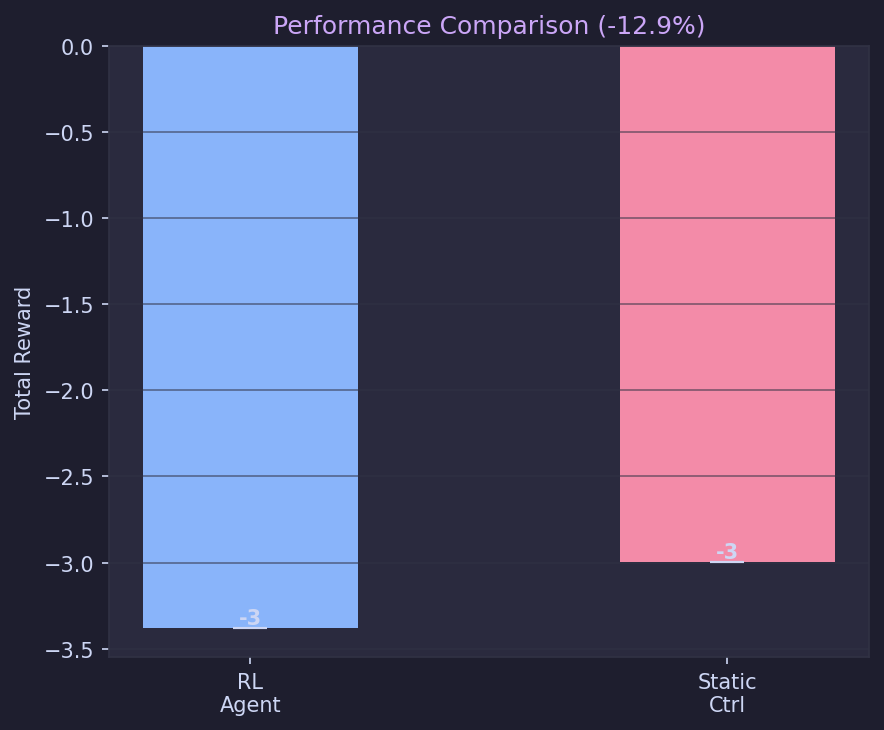
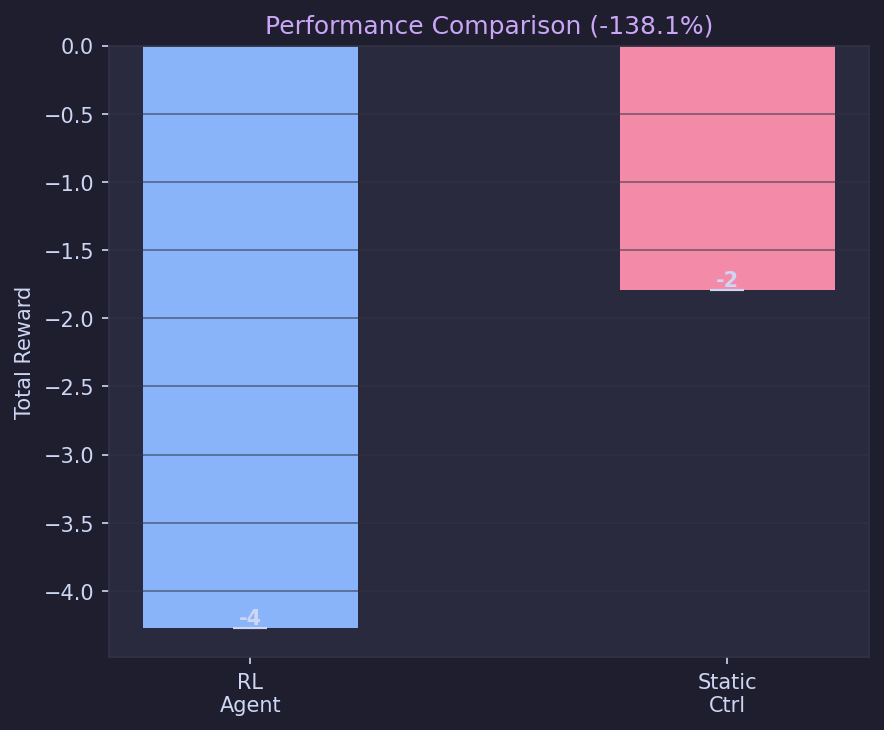
idk

diff --git a/env/traffic_env.py b/env/traffic_env.py
@@ -15,11 +15,9 @@ State (10-dim float32):
    current_green_phase,                            <- 0..3
    phase_time_norm]                                <- seconds / 60
 
-Actions (square layout: 0-1-2-3 as corners):
+Actions:
   0 -> stay at current green phase
-  1 -> forward  (next phase, +1 mod 4)
-  2 -> diagonal (opposite phase, +2 mod 4)
-  3 -> backward (previous phase, +3 mod 4)
+  1 -> next green phase (+1 mod 4)
 
 Reward: - sum halting vehicles / waiting time across all lanes (per sim-step sum)
 
@@ -125,6 +123,8 @@ def compute_reward(lanes: list, left_lanes: list, mode: str = "wait", return_com
         wait_part_total -= wait_val * penalty
         count_part_total -= count_val * penalty
 
+    reward = -np.sqrt(max(0, -reward))
+
     if return_components:
         return reward, wait_part_total, count_part_total
     return reward
@@ -175,7 +175,7 @@ class TrafficEnv:
 
     @property
     def action_size(self) -> int:
-        return 4
+        return 2
 
     def _launch(self):
         binary = "sumo-gui" if self.use_gui else "sumo"
@@ -325,15 +325,15 @@ class TrafficEnv:
         return self._get_state()
 
     def step(self, action: int):
-        # Action is Delta: 0=STAY, 1=FORWARD, 2=DIAGONAL, 3=BACKWARD
-        if action != 0 and self._phase_time >= config.MIN_GREEN:
+        # Action: 0=STAY, 1=NEXT
+        if action == 1 and self._phase_time >= config.MIN_GREEN:
             # Transition via yellow
             yellow = self.GREEN_PHASES[self._green_idx] + 1
             self._set_phase(yellow)
             for _ in range(config.YELLOW_DURATION):
                 traci.simulationStep()
 
-            self._green_idx = (self._green_idx + action) % self.NUM_PHASES
+            self._green_idx = (self._green_idx + 1) % self.NUM_PHASES
             self._set_phase(self.GREEN_PHASES[self._green_idx])
             self._phase_time = 0.0
 

diff --git a/play.py b/play.py
@@ -5,7 +5,7 @@ import config
 from env.traffic_env import TrafficEnv
 from agent.dqn_agent import DQNAgent
 
-ACTION_NAMES = ["STAY", "FORWARD (+1)", "DIAGONAL (+2)", "BACKWARD (+3)"]
+ACTION_NAMES = ["STAY", "NEXT PHASE"]
 PHASE_NAMES = ["N-S straight", "E-W straight", "N-S turn", "E-W turn"]
 
 

diff --git a/config.py b/config.py
@@ -7,7 +7,7 @@ CHECKPOINT_DIR = os.path.join(BASE_DIR, "checkpoints")
 SUMO_CFG_PATH = os.path.join(DATA_DIR, "new_sim.sumocfg")
 
 # -- RL Settings --
-REWARD_SCALE = 1e-4
+REWARD_SCALE = 1e-3
 
 # -- Environment Settings --
 STEP_SIZE = 1
